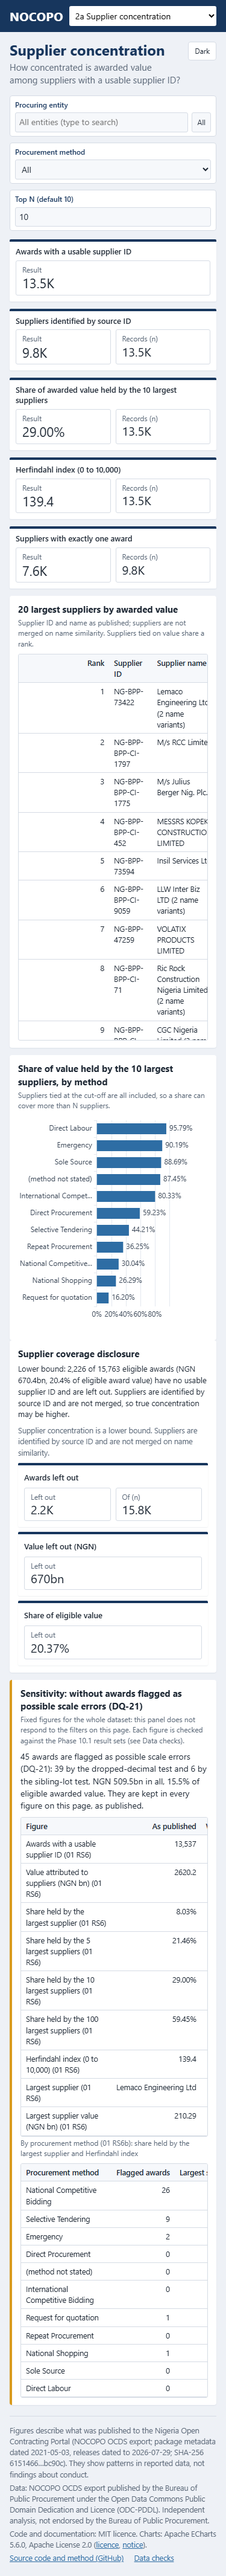
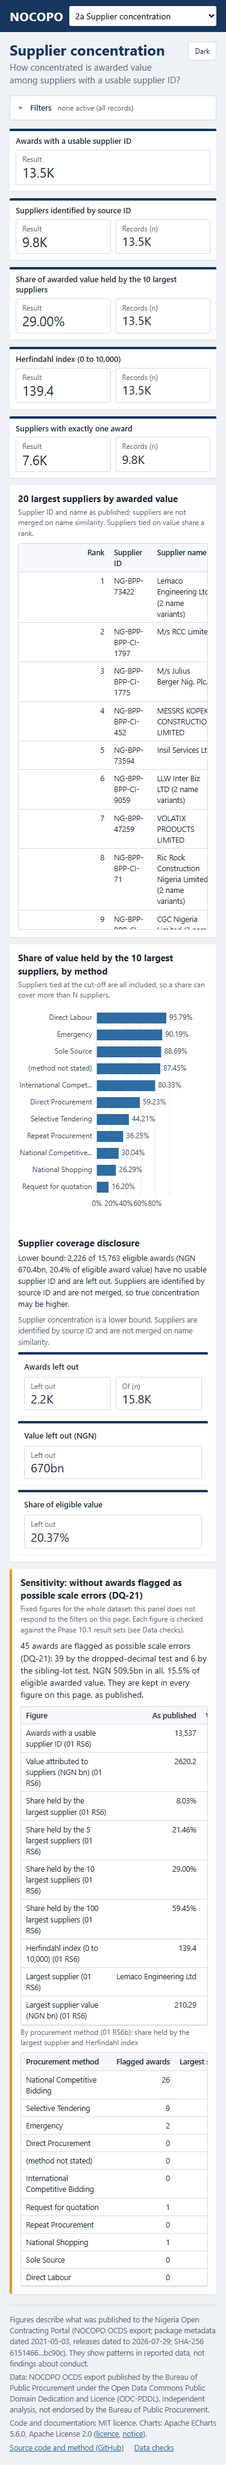
feat(web): collapsible filters on phones, whole value column on tablets

Changed region(s): [[0.0293, 0.0, 0.968, 0.9961], [0.0293, 0.6225, 0.0587, 0.6537]]

diff --git a/web/css/site.css b/web/css/site.css
@@ -172,7 +172,7 @@ th { position: sticky; top: 0; background: var(--surface-2); font-weight: 600; z
 td.num, th.num { text-align: right; white-space: nowrap; }
 td.bar { position: relative; min-width: 110px; }
 td.bar .fill { position: absolute; left: 0; top: 3px; bottom: 3px; background: var(--accent-soft); opacity: 0.75; }
-td.bar span { position: relative; }
+td.bar span { position: relative; white-space: nowrap; }
 tr.blank td { color: var(--muted); }
 .empty { color: var(--muted); font-style: italic; padding: 8px 0; }
 
@@ -208,7 +208,8 @@ tr.blank td { color: var(--muted); }
   .page-title { font-size: 24px; }
   .cards, .cards.five, .cards.six, .cards.three { grid-template-columns: minmax(0, 1fr); }
   .card-cell .v { font-size: 22px; }
-  .control { max-width: none; flex-basis: 100%; }
+  .control { max-width: none; min-width: 0; flex: 0 1 calc(50% - 5px); }
+  .control.wide { flex-basis: 100%; }
   .chart { height: 280px; }
   .chart.tall { height: 360px; }
 }
@@ -225,4 +226,33 @@ tr.blank td { color: var(--muted); }
 .table-wrap.tall { max-height: 640px; }
 @media (max-width: 599px) {
   .table-wrap td:first-child, .table-wrap th:first-child { min-width: 150px; }
+}
+
+/* ---------- filter bar: a closed, collapsible section on phones; always open (summary hidden) from 600 px ---------- */
+.filters { margin-bottom: 14px; }
+.filters > .controls { margin-bottom: 0; }
+.filters > summary { display: none; }
+@media (max-width: 599px) {
+  .filters > summary {
+    display: flex; flex-wrap: wrap; align-items: baseline; gap: 4px 10px; cursor: pointer; list-style: none;
+    background: var(--surface); border: 1px solid var(--line); border-radius: 4px; padding: 10px 12px; font-size: 13px;
+  }
+  .filters > summary::-webkit-details-marker { display: none; }
+  .filters > summary::before { content: "\25B8"; color: var(--accent); }
+  .filters[open] > summary::before { content: "\25BE"; }
+  .filters[open] > summary { border-bottom-left-radius: 0; border-bottom-right-radius: 0; }
+  .filters-title { font-weight: 600; color: var(--brand); }
+  .filters-active { color: var(--muted); font-size: 12px; min-width: 0; overflow-wrap: anywhere; }
+  .filters[open] > .controls { padding: 10px; background: var(--surface-2); border: 1px solid var(--line); border-top: 0; border-radius: 0 0 4px 4px; }
+}
+:root[data-theme="dark"] .filters-title { color: var(--fg); }
+@media (prefers-color-scheme: dark) { :root:not([data-theme="light"]) .filters-title { color: var(--fg); } }
+
+/* The value column of a table with bars stays whole on tablets: tighter cells and wrapping headers, so the 20-supplier table fits
+   its box at 600 to 1023 px and still scrolls inside it on phones. */
+@media (min-width: 600px) and (max-width: 1023px) {
+  .table-wrap.tall th, .table-wrap.tall td { padding: 5px 6px; }
+  .table-wrap.tall th.num { white-space: normal; }
+  .table-wrap.tall td.bar { min-width: 128px; }
+  .table-wrap.tall td:nth-child(2) { white-space: nowrap; font-size: 11.5px; }
 }

diff --git a/web/js/ui.js b/web/js/ui.js
@@ -2,6 +2,7 @@
 // CSSOM, so no markup is built from data and the Content-Security-Policy needs no inline styles.
 
 import { formatCompact, formatExact, roundTo } from './format.js';
+import { current } from './state.js';
 
 export function h(tag, attrs = {}, ...children) {
   const el = document.createElement(tag);
@@ -170,4 +171,31 @@ export function methodControl(d, value, onChange) {
 
 export function topNControl(value, onChange, label = 'Top N (default 10)') {
   return numberControl(label, value, 1, 100, onChange);
+}
+
+// ---------------------------------------------------------------- filter bar
+
+// The filters of a page in a native <details>. On wide screens it is always open and the summary line is hidden (CSS); on
+// phones it starts closed, with one line saying which filters are active, and keeps the reader's choice while filters change.
+const FILTER_NAMES = { buyer: 'entity', method: 'method', topn: 'Top N', mint: 'minimum tenders', mina: 'minimum awards',
+  minc: 'minimum contracts', minp: 'minimum processes', dq21: 'flagged awards excluded', metric: 'metric', impact: 'impact type',
+  status: 'contract status', tyear: 'tender start year', ayear: 'award year' };
+const phone = window.matchMedia('(max-width: 599px)');
+let userOpen = null;
+phone.addEventListener('change', () => {
+  userOpen = null;
+  const el = document.querySelector('details.filters');
+  if (el) el.open = !phone.matches;
+});
+
+export function controlBar(...controls) {
+  const { params } = current();
+  const active = Object.keys(params).filter((k) => FILTER_NAMES[k] && params[k] !== '').map((k) => FILTER_NAMES[k]);
+  const summary = h('summary', {},
+    h('span', { class: 'filters-title', text: 'Filters' }),
+    h('span', { class: 'filters-active', text: active.length ? `${active.length} active: ${active.join(', ')}` : 'none active (all records)' }));
+  const el = h('details', { class: 'filters' }, summary, h('div', { class: 'controls' }, ...controls));
+  el.open = userOpen ?? !phone.matches;
+  el.addEventListener('toggle', () => { if (phone.matches) userOpen = el.open; });
+  return el;
 }

diff --git a/web/js/pages/timing.js b/web/js/pages/timing.js
@@ -5,7 +5,7 @@ import { BANDS, measure, bandDays, median } from '../metrics.js';
 import { rows as filterRows, pick } from '../data.js';
 import { columns, line } from '../charts.js';
 import { int as intParam } from '../state.js';
-import { card, cards, caveat, entityControl, grid, h, methodControl, panel, selectControl, table } from '../ui.js';
+import { card, cards, caveat, controlBar, entityControl, grid, h, methodControl, panel, selectControl, table } from '../ui.js';
 import { CAVEATS } from '../text.js';
 import { compact, dec, int, pct } from './common.js';
 
@@ -38,7 +38,7 @@ export function render({ d, el, params, set, after }) {
   const fal = { ...base, awardYear: ay };
   const fsl = { buyer: base.buyer };
 
-  el.append(h('div', { class: 'controls' },
+  el.append(controlBar(
     entityControl(d, base.buyer, (v) => set({ buyer: v })),
     methodControl(d, base.method, (v) => set({ method: v })),
     selectControl('Tender start year (tender duration)', [['', 'All'], ...years(d.tender_duration.y).map((y) => [y, String(y)])], tsy ?? '',

diff --git a/web/js/pages/entities.js b/web/js/pages/entities.js
@@ -7,7 +7,7 @@
 import { divide, entityAwardScenarios, entityValues, median, sumBig, topNSum } from '../metrics.js';
 import { hbar } from '../charts.js';
 import { int as intParam } from '../state.js';
-import { card, cards, caveat, checkControl, entityControl, grid, h, numberControl, panel, table, topNControl } from '../ui.js';
+import { card, cards, caveat, checkControl, controlBar, entityControl, grid, h, numberControl, panel, table, topNControl } from '../ui.js';
 import { CAVEATS } from '../text.js';
 import { dec, int, labelOf, ngn, ngnCompact, pct } from './common.js';
 
@@ -20,7 +20,7 @@ export function render({ d, el, params, set, after }) {
   const minP = intParam(params, 'minp', 30);
   const includeFlagged = params.dq21 !== 'off';
 
-  el.append(h('div', { class: 'controls' },
+  el.append(controlBar(
     entityControl(d, buyer, (v) => set({ buyer: v })),
     topNControl(n, (v) => set({ topn: v === 10 ? null : v }), 'Top N'),
     numberControl('Minimum tenders', minT, 1, 200, (v) => set({ mint: v === 30 ? null : v })),

diff --git a/web/js/pages/suppliers.js b/web/js/pages/suppliers.js
@@ -4,7 +4,7 @@ import { measure, rs6, rs6b, ranked, supplierValues, supplierRows, sumBig, topNS
 import { pick } from '../data.js';
 import { hbar } from '../charts.js';
 import { int as intParam } from '../state.js';
-import { card, cards, entityControl, grid, h, methodControl, panel, table, topNControl } from '../ui.js';
+import { card, cards, controlBar, entityControl, grid, h, methodControl, panel, table, topNControl } from '../ui.js';
 import { disclosurePanel, int, ngn, pct, pctAxis, sensitivityPanel } from './common.js';
 
 export function render({ d, el, params, set, after }) {
@@ -13,7 +13,7 @@ export function render({ d, el, params, set, after }) {
   const m = (name, p) => measure(d, name, f, p);
   const eligible = m('[M-S01 Eligible Awards]');
 
-  el.append(h('div', { class: 'controls' },
+  el.append(controlBar(
     entityControl(d, f.buyer, (v) => set({ buyer: v })),
     methodControl(d, f.method, (v) => set({ method: v })),
     topNControl(n, (v) => set({ topn: v === 10 ? null : v }))));

diff --git a/web/js/pages/implementation.js b/web/js/pages/implementation.js
@@ -2,7 +2,7 @@
 
 import { BANDS, measure } from '../metrics.js';
 import { donut, hbar } from '../charts.js';
-import { card, cards, caveat, entityControl, grid, h, panel, selectControl, table } from '../ui.js';
+import { card, cards, caveat, controlBar, entityControl, grid, h, panel, selectControl, table } from '../ui.js';
 import { CAVEATS } from '../text.js';
 import { compact, int, labelOf, pct, pctAxis } from './common.js';
 import { extremes } from './competition.js';
@@ -15,7 +15,7 @@ export function render({ d, el, params, set, after }) {
   const m = (name, p) => measure(d, name, fc, p);
   const n = m('[Contracts (n)]');
 
-  el.append(h('div', { class: 'controls' },
+  el.append(controlBar(
     entityControl(d, fc.buyer, (v) => set({ buyer: v })),
     selectControl('Contract status', [['', 'All'], ...d.dims.contract_statuses.map((s) => [s, s])], fc.contractStatus ?? '',
       (v) => set({ status: v || null }))));

diff --git a/web/js/pages/data_quality.js b/web/js/pages/data_quality.js
@@ -2,7 +2,7 @@
 
 import { measure, rs11a } from '../metrics.js';
 import { decimalToScaled } from '../format.js';
-import { card, cards, caveat, grid, h, panel, selectControl, table } from '../ui.js';
+import { card, cards, caveat, controlBar, grid, h, panel, selectControl, table } from '../ui.js';
 import { CAVEATS } from '../text.js';
 import { int, ngn, pct } from './common.js';
 
@@ -18,7 +18,7 @@ export function render({ d, el, params, set }) {
   const impact = params.impact ?? null;
   const dq = dqAll.filter((r) => (!metric || r.metric_id === metric) && (!impact || r.impact_type === impact));
 
-  el.append(h('div', { class: 'controls' },
+  el.append(controlBar(
     selectControl('Metric', [['', 'All'], ...metrics.map((x) => [x, x])], metric ?? '', (v) => set({ metric: v || null })),
     selectControl('Impact type', [['', 'All'], ...impacts.map((x) => [x, x])], impact ?? '', (v) => set({ impact: v || null }))));
 

diff --git a/web/js/pages/budget.js b/web/js/pages/budget.js
@@ -3,7 +3,7 @@
 import { BANDS, measure, rs11, sumBig, median, divide } from '../metrics.js';
 import { rows as filterRows, pick } from '../data.js';
 import { columns } from '../charts.js';
-import { card, cards, caveat, entityControl, grid, h, methodControl, panel, table } from '../ui.js';
+import { card, cards, caveat, controlBar, entityControl, grid, h, methodControl, panel, table } from '../ui.js';
 import { CAVEATS } from '../text.js';
 import { compact, dec, int, labelOf, ngn, sensitivityPanel } from './common.js';
 
@@ -14,7 +14,7 @@ export function render({ d, el, params, set, after }) {
   const m = (name, p) => measure(d, name, f, p);
   const n = m('[Comparable OCIDs]');
 
-  el.append(h('div', { class: 'controls' },
+  el.append(controlBar(
     entityControl(d, f.buyer, (v) => set({ buyer: v })),
     methodControl(d, f.method, (v) => set({ method: v }))));
 

diff --git a/web/js/pages/competition.js b/web/js/pages/competition.js
@@ -3,7 +3,7 @@
 
 import { BANDS, measure } from '../metrics.js';
 import { columns, hbar } from '../charts.js';
-import { card, cards, caveat, entityControl, grid, h, methodControl, panel, table } from '../ui.js';
+import { card, cards, caveat, controlBar, entityControl, grid, h, methodControl, panel, table } from '../ui.js';
 import { CAVEATS } from '../text.js';
 import { compact, int, labelOf, pct, pctAxis } from './common.js';
 
@@ -22,7 +22,7 @@ export function render({ d, el, params, set, after }) {
   const m = (name, p) => measure(d, name, f, p);
   const nPrim = m('[Competition n (primary)]');
 
-  el.append(h('div', { class: 'controls' },
+  el.append(controlBar(
     entityControl(d, f.buyer, (v) => set({ buyer: v })),
     methodControl(d, f.method, (v) => set({ method: v }))));
 

diff --git a/docs/phase13_web_dashboard/web_dashboard.md b/docs/phase13_web_dashboard/web_dashboard.md
@@ -85,7 +85,7 @@ set `PGUSER=nocopo_bi` and supply its password through `PGPASSWORD` or `pgpass.c
 | Filtered cards | The pack's sliced figures (method, buyer, contract status, tender start year: SUP-16 to 18, COM-07/08/10, BVA-08/09, TIM-14 to 17, IMP-04/05); table figures BVA-10 and ENT-11 to 14 | 14 / 14 and 5 / 5 PASS |
 | Entity and method filters | One entity and one method filter on each page that has them, compared with values computed by `check_web_data.py`'s functions | 48 / 48 PASS |
 | DQ-21 switch (page 5) | Top N share at N = 1, 5, 10, 20, 50, 100 with and without flagged awards against 05 RS7; the top-10 order against 05 RS7b | 12 / 12 and 10 / 10 PASS |
-| Layout | Every page at 1440 px and at 375 px: no horizontal page scroll; long tables scroll in their own box | 0 px overflow on all 8 pages at both widths |
+| Layout | Every page at 1440, 800 and 375 px: no horizontal page scroll; long tables scroll in their own box; filters collapsed on phones, open on wider screens | 0 px overflow on all 8 pages at all three widths |
 | Browser console and CSP | All pages and filtered views, chart tooltips and card taps, served with the `vercel.json` headers | 0 errors, 0 policy violations, 0 requests to other sites |
 | Wording | The words of `dashboard/README.md` §7.3 in the site's HTML, JavaScript and CSS; the §8 caveat sentences allowed verbatim | 24 files, 0 findings |
 

diff --git a/docs/phase13_web_dashboard/web_design_note.md b/docs/phase13_web_dashboard/web_design_note.md
@@ -160,7 +160,10 @@ One page, `index.html`, with hash routing (`#overview`, `#suppliers`, `#competit
 - **Tablet (600–1023 px):** the sidebar becomes a top bar; cards two per row; panels stack.
 - **Phone (375 px):** a page menu (native `<select>`, so it is accessible and needs no script to open); cards one or two per
   row; every panel full width; long tables scroll inside their own box (`overflow-x: auto`) so the page itself never scrolls
-  sideways; charts redraw on resize.
+  sideways; charts redraw on resize. The page's filters sit in a native `<details>` "Filters" section: closed by default on phones
+  with a one-line summary of the active filters (it stays as the reader leaves it while a filter changes), two controls per row
+  when open, and always open with the summary hidden from 600 px upward. At 600 to 1023 px the 20-supplier table uses tighter
+  cells and wrapping headers so its value column stays whole.
 - **Cards** show the compact value (98K, 93T) and the eligible n, as in Power BI; the exact value is in the card's tooltip and
   `title`, and in a `data-value` attribute that the self-check reads.
 - **Entity dropdown:** 665 entries is too long for a plain list on a phone, so it is a searchable input (`<input list>` with a

diff --git a/README.md b/README.md
@@ -173,7 +173,7 @@ reproducible only from the pinned file. Details: [`data/README.md`](data/README.
 ```
 ├── README.md                 This page
 ├── data/README.md            Source inventory, SHA-256, licence, acquisition
-├── docs/                     Portfolio documents + evidence by phase (index: docs/README.md)
+├── docs/                     Project documents + evidence by phase (index: docs/README.md)
 │   ├── business_requirements.md · methodology.md · data_dictionary.md · assumptions_and_limitations.md
 │   ├── 00_project_planning/  Scope, architecture, data-quality plan, implementation plan
 │   ├── phase2_profiling/ … phase9_dashboard/   Evidence and generated validation logs per phase
@@ -210,4 +210,4 @@ PostgreSQL 17 (CTEs, window functions, materialised views, generated columns, ro
 ## Licence
 
 Code and documentation: MIT ([`LICENSE`](LICENSE)). Source data: Bureau of Public Procurement, ODC-PDDL
-([`NOTICE.md`](NOTICE.md)). This is an independent portfolio analysis, not endorsed by the BPP.
+([`NOTICE.md`](NOTICE.md)). This is an independent analysis, not endorsed by the BPP.
